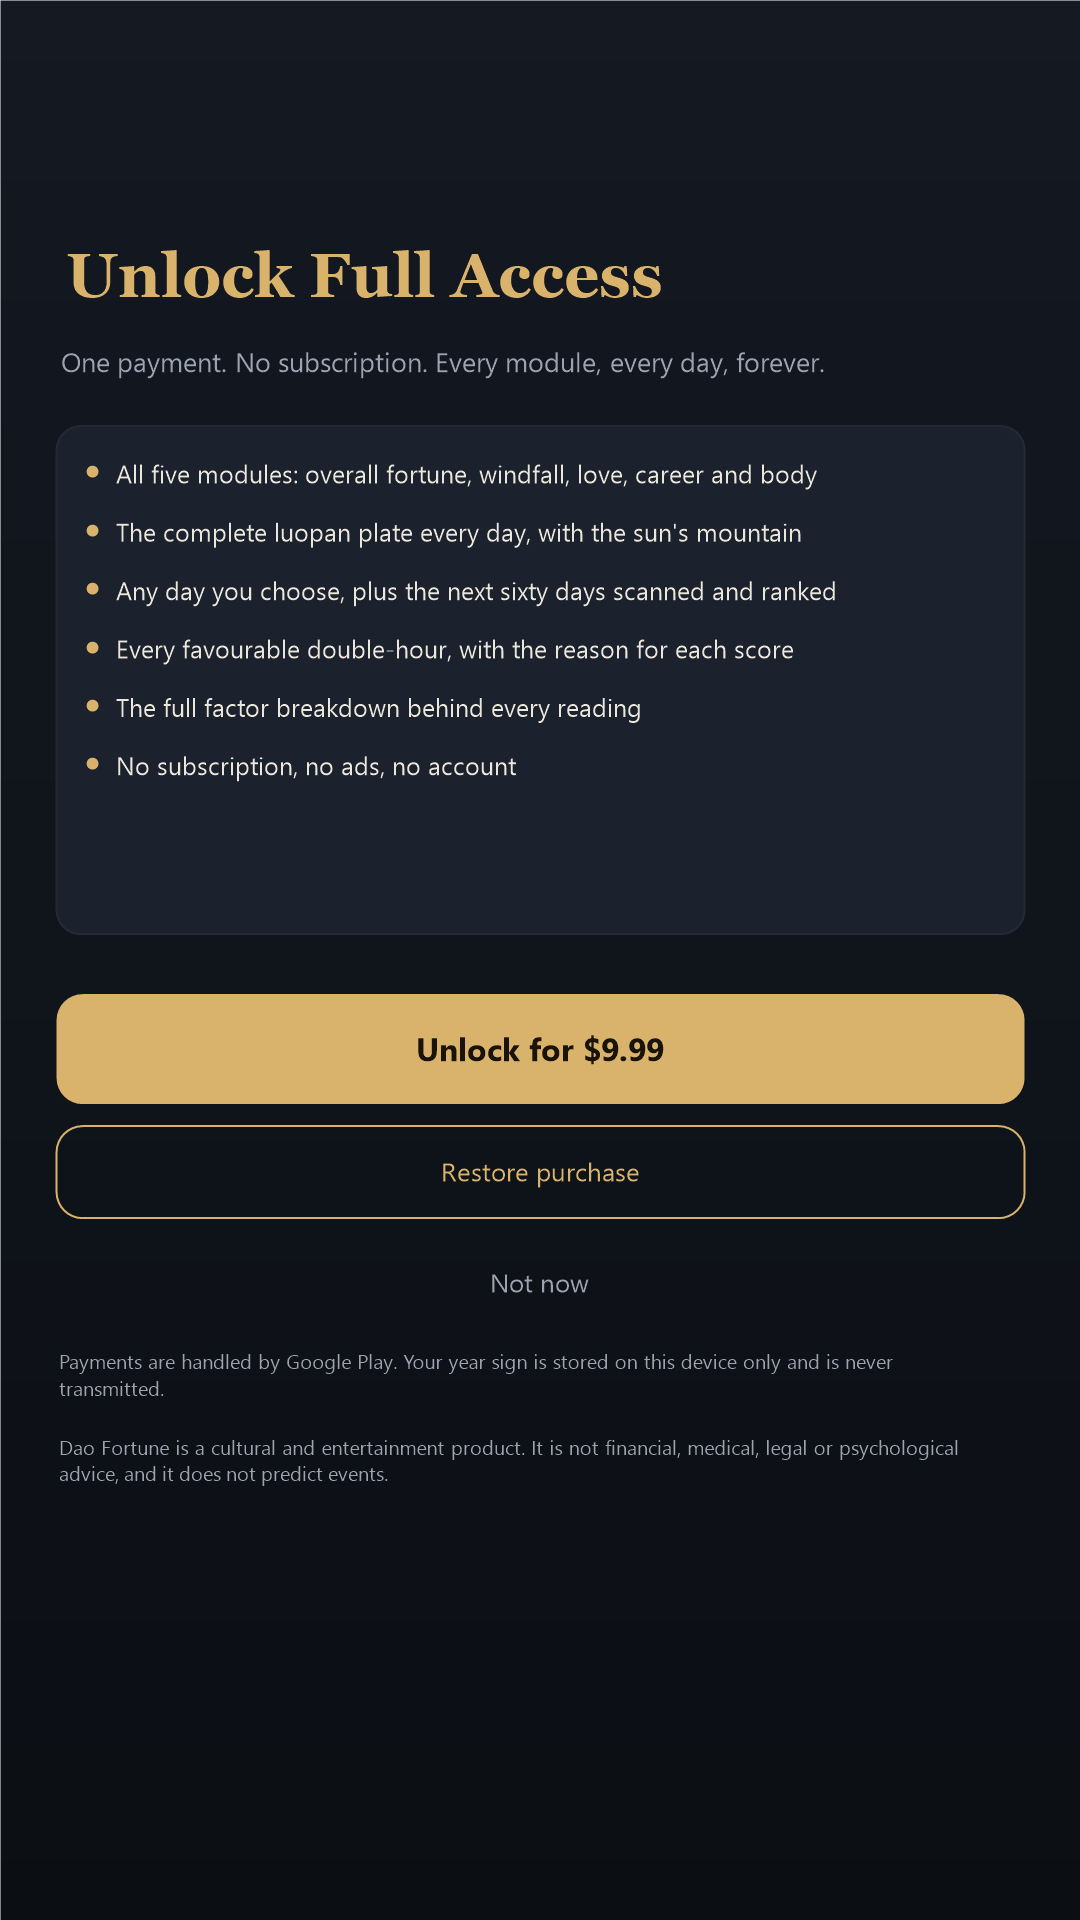
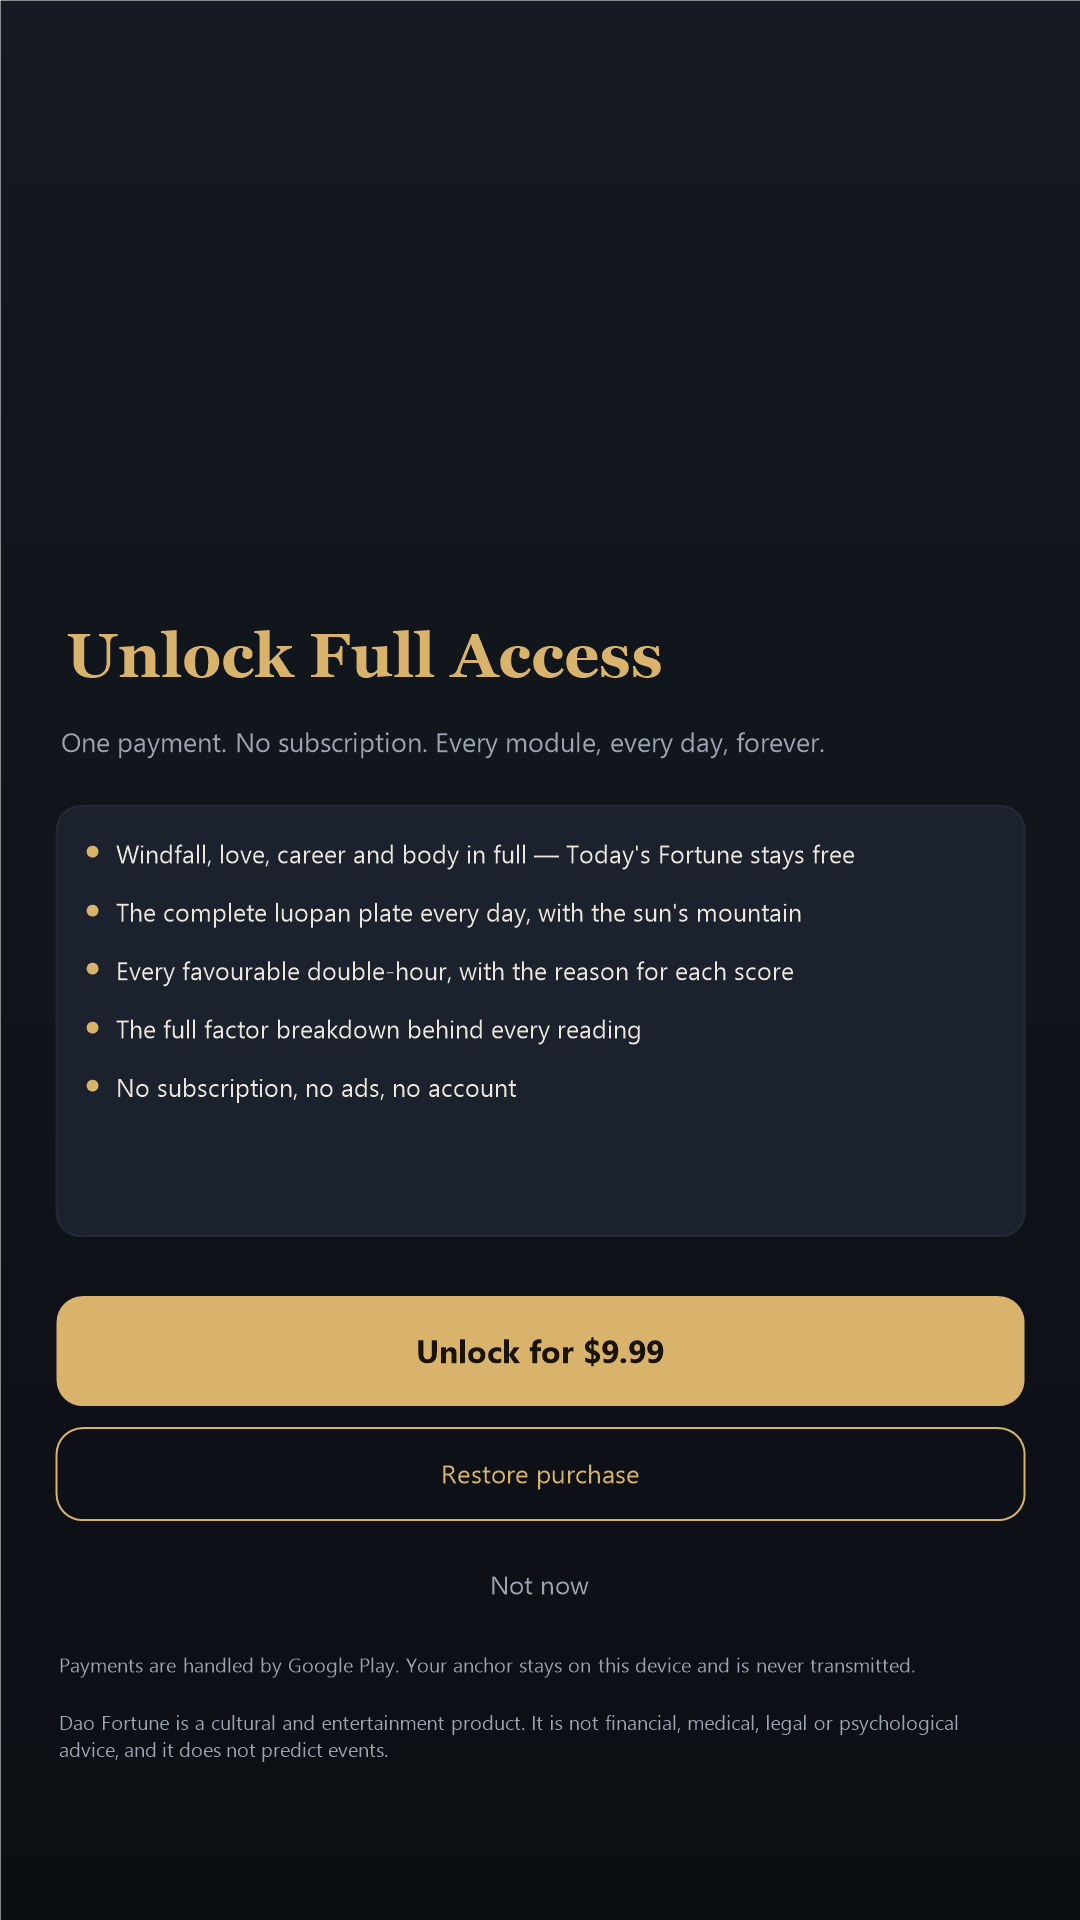
Draw Today's Fortune the moment the plate is known, and re-sync the shots
Today's Fortune has been free every day, in full, since the paywall split
changed - but its home card still carried the PREVIEW teaser, so the card
contradicted the banner right above it and the reader had to open it to see
a score the app was already giving away.

FortuneEngine.alwaysFree() is the single reading the home screen carries
without asking for anything, and MainViewModel puts it in the readings map
whenever the plate or the anchor changes. The card now shows its score, and
opening it never spends the free reading. Two tests lock the invariant: the
free set holds Today's Fortune and nothing else, and it follows the anchor.

The store screenshots are a GDI+ re-implementation of the Compose layout, so
they do not follow the app on their own. They are re-synced with the current
UI: the free-reading banner, the anchor row and its birth-day line, the
bells on the favourable days, Today's Fortune carrying its score, the paywall
benefits and fine print, and the dream sheet's share buttons.

The paywall's fine print no longer says the app stores no personal data -
the optional birth day is stored on the device, and the privacy policy says
so. It now says the anchor stays on the device and is never transmitted.

diff --git a/app/src/main/java/com/laki/daofortune/vm/MainViewModel.kt b/app/src/main/java/com/laki/daofortune/vm/MainViewModel.kt
@@ -133,7 +133,14 @@ class MainViewModel(app: Application) : AndroidViewModel(app) {
             remindedDays = profile.remindedDays.filter { it >= today }.toSet(),
             freeReadingsLeft = access.freeReadingsLeft(),
             unlocked = access.isUnlocked
-        ).let { it.copy(previews = previewsFor(it.snapshot, it.natalBranch)) }
+        ).let {
+            it.copy(
+                previews = previewsFor(it.snapshot, it.natalBranch),
+                // Today's Fortune is free every day, in full: it is drawn as soon
+                // as the plate is known, so its card carries the score.
+                readings = FortuneEngine.alwaysFree(today, it.snapshot, it.natalBranch)
+            )
+        }
     }
 
     init {
@@ -175,7 +182,10 @@ class MainViewModel(app: Application) : AndroidViewModel(app) {
                 snapshot = fresh,
                 selectedDate = today,
                 isToday = true,
-                previews = previewsFor(fresh, it.natalBranch)
+                previews = previewsFor(fresh, it.natalBranch),
+                // The hour moved, so today's fortune is redrawn with it.
+                readings = it.readings +
+                    FortuneEngine.alwaysFree(today, fresh, it.natalBranch)
             )
         }
         rescanFavourableDays()
@@ -201,6 +211,10 @@ class MainViewModel(app: Application) : AndroidViewModel(app) {
                 selectedDate = date,
                 isToday = date == today,
                 previews = previewsFor(snapshot, it.natalBranch),
+                // A different day is a different plate: today's fortune is free,
+                // so it is drawn for that day too.
+                readings = it.readings +
+                    FortuneEngine.alwaysFree(date, snapshot, it.natalBranch),
                 selected = null
             )
         }
@@ -210,14 +224,20 @@ class MainViewModel(app: Application) : AndroidViewModel(app) {
     fun setYearSign(sign: YearSign?) {
         profile.setYearSign(sign)
         val state = _ui.value
-        _ui.update {
-            val next = it.copy(yearSign = sign)
-            next.copy(previews = previewsFor(next.snapshot, next.natalBranch))
-        }
         // The readings drawn without the year sign are still true, but they are
         // no longer the readings the reader would get now.
-        if (sign != null || state.yearSign != null) {
-            _ui.update { it.copy(readings = emptyMap(), selected = null, dreamReading = null) }
+        val anchorChanged = sign != null || state.yearSign != null
+        _ui.update {
+            val next = it.copy(yearSign = sign)
+            next.copy(
+                previews = previewsFor(next.snapshot, next.natalBranch),
+                // Today's Fortune is free, so it is redrawn against the new
+                // anchor straight away; the rest go only when the anchor moved.
+                readings = FortuneEngine.alwaysFree(next.selectedDate, next.snapshot, next.natalBranch) +
+                    (if (anchorChanged) emptyMap() else next.readings),
+                selected = if (anchorChanged) null else next.selected,
+                dreamReading = if (anchorChanged) null else next.dreamReading
+            )
         }
         rescanFavourableDays()
     }
@@ -233,12 +253,17 @@ class MainViewModel(app: Application) : AndroidViewModel(app) {
     fun setBirthDate(date: LocalDate?) {
         profile.setBirthDate(date)
         val state = _ui.value
+        val anchorChanged = date != null || state.birthDate != null
         _ui.update {
             val next = it.copy(birthDate = date)
-            next.copy(previews = previewsFor(next.snapshot, next.natalBranch))
-        }
-        if (date != null || state.birthDate != null) {
-            _ui.update { it.copy(readings = emptyMap(), selected = null, dreamReading = null) }
+            next.copy(
+                previews = previewsFor(next.snapshot, next.natalBranch),
+                // Same as the year sign: the free reading follows the anchor.
+                readings = FortuneEngine.alwaysFree(next.selectedDate, next.snapshot, next.natalBranch) +
+                    (if (anchorChanged) emptyMap() else next.readings),
+                selected = if (anchorChanged) null else next.selected,
+                dreamReading = if (anchorChanged) null else next.dreamReading
+            )
         }
         rescanFavourableDays()
     }

diff --git a/app/src/test/java/com/laki/daofortune/core/EngineTest.kt b/app/src/test/java/com/laki/daofortune/core/EngineTest.kt
@@ -441,4 +441,48 @@ class EngineTest {
             assertEquals("${day.date} headline", expected.headline, day.headline)
         }
     }
+
+    @Test
+    fun `today's fortune is always drawn, the other modules are not`() {
+        // Today's Fortune is free every day, in full: the home screen carries
+        // it as soon as the plate is known, so its card shows the score rather
+        // than the preview teaser. Nothing else comes for free.
+        val date = LocalDate.of(2026, 10, 31)
+        val plate = LuopanEngine.dayPlate(date, zone)
+
+        val free = FortuneEngine.alwaysFree(date, plate, Branch.ZI)
+        assertEquals("only today's fortune", 1, free.size)
+        val reading = free[ReadingKey(date, FortuneModule.OVERALL)]
+        assertTrue("today's fortune is in the free set", reading != null)
+        assertEquals(FortuneModule.OVERALL, reading!!.module)
+        assertEquals(
+            "the free reading is the real one",
+            FortuneEngine.reading(plate, FortuneModule.OVERALL, Branch.ZI).score,
+            reading.score
+        )
+
+        // The four modules behind the unlock, and the dream, are not in it.
+        FortuneModule.entries.filter { it != FortuneModule.OVERALL }.forEach { module ->
+            assertTrue("${module.title} is not free", free[ReadingKey(date, module)] == null)
+        }
+    }
+
+    @Test
+    fun `the free reading follows the anchor`() {
+        // Change the anchor and the free reading is redrawn against it, while
+        // the paid-for ones are the reader's to keep or lose.
+        val date = LocalDate.of(2026, 10, 31)
+        val plate = LuopanEngine.dayPlate(date, zone)
+        val withZi = FortuneEngine.alwaysFree(date, plate, Branch.ZI)[ReadingKey(date, FortuneModule.OVERALL)]!!
+        val withWu = FortuneEngine.alwaysFree(date, plate, Branch.WU)[ReadingKey(date, FortuneModule.OVERALL)]!!
+        assertEquals(
+            "the same anchor gives the same reading",
+            withZi.score,
+            FortuneEngine.alwaysFree(date, plate, Branch.ZI)[ReadingKey(date, FortuneModule.OVERALL)]!!.score
+        )
+        assertTrue(
+            "a different anchor moves the reading",
+            withZi.score != withWu.score || withZi.headline != withWu.headline
+        )
+    }
 }

diff --git a/app/src/main/java/com/laki/daofortune/core/FortuneEngine.kt b/app/src/main/java/com/laki/daofortune/core/FortuneEngine.kt
@@ -1,5 +1,6 @@
 package com.laki.daofortune.core
 
+import java.time.LocalDate
 import java.time.format.DateTimeFormatter
 import java.util.Locale
 
@@ -279,4 +280,19 @@ object FortuneEngine {
     } else {
         "Today · " + s.moment.format(DateTimeFormatter.ofPattern("HH:mm", Locale.ENGLISH))
     }
+
+    /**
+     * The readings the home screen carries without asking for anything.
+     *
+     * Today's Fortune is free every day, in full: it is drawn as soon as the
+     * plate is known, so its card shows the score and never the preview teaser,
+     * and the one free reading is never spent on it. The other four modules and
+     * the dream are not here — they are what the unlock is for.
+     */
+    fun alwaysFree(
+        date: LocalDate,
+        s: LuopanSnapshot,
+        natal: Branch? = null
+    ): Map<ReadingKey, ModuleReading> =
+        mapOf(ReadingKey(date, FortuneModule.OVERALL) to reading(s, FortuneModule.OVERALL, natal))
 }

diff --git a/app/src/main/java/com/laki/daofortune/ui/PaywallSheet.kt b/app/src/main/java/com/laki/daofortune/ui/PaywallSheet.kt
@@ -185,7 +185,7 @@ fun PaywallSheet(
 
             Spacer(Modifier.height(8.dp))
             Text(
-                "Payments are handled by Google Play. The app works offline and stores no personal data.",
+                "Payments are handled by Google Play. Your anchor stays on this device and is never transmitted.",
                 style = MaterialTheme.typography.labelSmall,
                 color = MaterialTheme.colorScheme.onSurfaceVariant,
                 textAlign = TextAlign.Center

diff --git a/docs/TESTING.md b/docs/TESTING.md
@@ -31,7 +31,7 @@ of them has drifted.
 ```powershell
 Set-Location E:\Minimax\dao-fortune
 python tools\reference\luopan_reference.py       # SELF-CHECK: ALL PASS, rewrites the golden TSVs
-.\gradlew.bat :app:testDebugUnitTest             # 51 tests
+.\gradlew.bat :app:testDebugUnitTest             # 55 tests
 ```
 
 `SampleReadingDump` also writes `docs/store/reading_sample.json` — the real output the store
@@ -110,6 +110,16 @@ powershell -NoProfile -ExecutionPolicy Bypass -File tools\release\package_releas
 Produces `dist/app-release.aab` and `dist/dao-fortune-source-v1.0.0.zip`. The source zip must contain
 **no** `keystore.properties`, no `.jks` and no `__pycache__`.
 
+### 1.7 Store copy
+
+```powershell
+python tools\qa\check_listing_lengths.py
+```
+
+Play rejects an over-long listing before a human ever sees it, so the caps are checked here: app name
+30, short description 80, full description 4000, release notes 500. This runs inside the release
+gate.
+
 ---
 
 ## Layer 2 — On a real phone
@@ -156,7 +166,7 @@ production.
 
 | # | Action | Expected |
 |---|---|---|
-| 12 | Fresh install, before paying | All five cards show a verdict line and a `PREVIEW` tag |
+| 12 | Fresh install, before paying | The four paid modules show a verdict line and a `PREVIEW` tag; **Today's Fortune shows its score straight away** — it is free every day, in full |
 | 12a | Open **Today's Fortune** without paying | The full reading opens — score, factors, hours, advice — and the free-reading counter is untouched |
 | 13 | Locked cards (the other four, after the free reading is spent) | Lock icon, no score; Today's Fortune never locks |
 | 14 | After unlocking | Scores appear on every card, `PREVIEW` tag gone |
@@ -270,7 +280,7 @@ Everything below must be true before an upload. If any line is unchecked, stop.
 | Gate | How to verify | Status |
 |---|---|---|
 | Engine parity green | `python tools\reference\luopan_reference.py` → ALL PASS | ☐ |
-| Unit tests green | `:app:testDebugUnitTest` → 51/51 | ☐ |
+| Unit tests green | `:app:testDebugUnitTest` → 55/55 | ☐ |
 | Lint has zero errors | `:app:lintRelease` → `app/build/reports/lint-results-release.txt` | ☐ |
 | Bundle validates | `bundletool validate` → exit 0 | ☐ |
 | 16 KB page size | `python tools\qa\check_16kb_pages.py dist\app-release.aab` → PASSED | ☐ |

diff --git a/AGENTS.md b/AGENTS.md
@@ -112,6 +112,13 @@ powershell -NoProfile -ExecutionPolicy Bypass -File tools\qa\verify_release.ps1 
   the release gate also checks that git is not tracking them. `dist/` is ignored too — the bundle and
   the source zip are rebuilt, not committed. The repo is public, so GitHub's **secret scanning push
   protection** (Settings → Code security → Push protection) must stay enabled as the second net.
+- **Today's Fortune is drawn the moment the plate is known, and only that one.**
+  `FortuneEngine.alwaysFree(date, snapshot, natal)` returns the single reading the home screen carries
+  without asking for anything, and `MainViewModel` puts it in `UiState.readings` whenever the plate or
+  the anchor changes. That is why the card shows its score instead of a `PREVIEW` tag, and why opening
+  it never spends the free reading. The four other modules and the dream stay behind the unlock. If the
+  split changes, the listing, the paywall bullets, the home banner and the store screenshots change
+  with it.
 
 ## Store material
 
@@ -124,6 +131,15 @@ powershell -NoProfile -ExecutionPolicy Bypass -File tools\store_assets\build_scr
 
 Screenshots read `docs/store/reading_sample.json`, which the `SampleReadingDump` test writes from
 real engine output — regenerate it by running the tests, not by editing it.
+
+**The screenshots are a re-implementation of the Compose layout in GDI+, not captures of it.** They do
+not follow the app: when a visible string or a row changes, `tools/store_assets/build_screenshots.ps1`
+has to be edited by hand and the six PNGs regenerated, or the store shows a product that no longer
+exists. The home shot in particular carries the free-reading banner, the anchor row and the five
+module cards — copy that text out of `ui/HomeScreen.kt` and `ui/DateAndYearSign.kt`, never from
+memory. Two traps in that script: PowerShell's comma operator binds tighter than `+`, so a
+concatenated array element needs its own parentheses; and `$h` clobbers `$H` because the shell is
+case-insensitive.
 
 `docs/store/screenshots/` must hold exactly the final PNGs — `01_home`, `02_home_unlocked`,
 `03_favourable_days`, `04_windfall_reading`, `05_unlock` and `06_dream` — that is the folder you upload

diff --git a/README.md b/README.md
@@ -314,9 +314,10 @@ The reading is computed locally, so the only thing being sold is access to it. T
 `data/AccessState.kt` and `vm/MainViewModel.kt`:
 
 * **Today's Fortune is free every day, in full.** The overall module — score, factors, hours and
-  advice — never costs anything and never spends the free reading. It is the daily hook.
-* **The first full reading of each other module is free.** Windfall, love, career, body and the
-  dream: the first one is on the house.
+  advice — never costs anything and never spends the free reading. It is the daily hook, and it is
+  drawn as soon as the plate is known, so its card shows the score straight away.
+* **One free reading in total, not one per module.** Windfall, love, career, body and the dream share
+  a single free reading: the first one you open is on the house, and the next one needs the unlock.
 * **After that, every reading needs the one-off unlock** (`dao_fortune_full_access`, $9.99 in every
   market; the app reads the converted price straight from Play Billing).
 
